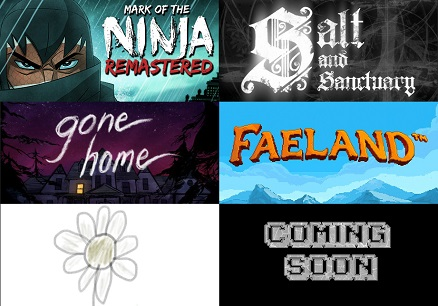
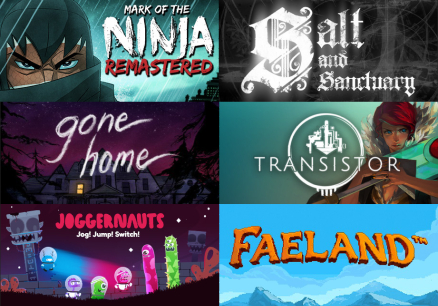
New client page

diff --git a/_site/index.html b/_site/index.html
@@ -93,11 +93,12 @@
 			<div class="inner">
 				<p>We're working on a lot of interesting games with some pretty cool people! </p>
 				<ul>
-					<li><a href="https://www.klei.com/games/mark-ninja"> <b>Klei Entertainment</b></a> : PS4™, Xbox One, Nintendo Switch, Steam Testing (QA)</li>
-					<li><a href="https://www.nintendo.com/games/detail/salt-and-sanctuary-switch"> <b>Ska Studios</b></a> : Nintendo Switch Testing (QA/Lotcheck)</li>
-					<li><a href="http://fullbrig.ht"> <b>Fullbright</b></a> : Steam PC Update for Gone Home (QA)</li>
-					<li><a href="http://www.talegames.com"> <b>Talegames</b></a> : Faeland Demo (Music)</li>
-					<li><b>Unannounced Projects for Switch, PS4™, Xbox One, and Steam! (Releasing 2018)</b></li>
+					<li><a href="https://www.klei.com/games/mark-ninja"> <b>Klei Entertainment</b></a>: Mark of the Ninja: Remastered - PS4™, Xbox One, Nintendo Switch, Steam Testing (QA)</li>
+					<li><a href="https://www.nintendo.com/games/detail/salt-and-sanctuary-switch"> <b>Ska Studios</b></a>: Salt and Sanctuary - Nintendo Switch Testing (QA/Lotcheck)</li>
+					<li><a href="https://www.nintendo.com/games/detail/transistor-switch"> <b>Supergiant Games</b></a>: Transistor - Nintendo Switch Testing (QA/Lotcheck)</li>
+					<li><a href="https://spacemacegames.com/"> <b>Space Mace Games</b></a>: Joggernauts - Nintendo Switch Testing (Lotcheck)</li>
+					<li><a href="http://fullbrig.ht"> <b>Fullbright</b></a>: Gone Home - Steam PC Update (QA)</li>
+					<li><a href="http://www.talegames.com"> <b>Talegames</b></a>: Faeland - Music for Kickstarter Demo</li>
 					<br />
 					<ul class="actions">
 						<li><a href="http://www.plasticfernstudios.com/clients" class="button scrolly">See More Clients</a></li>

diff --git a/assets/css/main.css b/assets/css/main.css
@@ -3081,33 +3081,12 @@
 				opacity: 1;
 			}
 
-		.spotlights > section:nth-child(2) {
-			background-color: rgba(0, 0, 0, 0.05);
-		}
-
-		.spotlights > section:nth-child(3) {
+		.spotlights > section:nth-child(odd) {
 			background-color: rgba(0, 0, 0, 0.1);
 		}
-		.spotlights > section:nth-child(4) {
-			background-color: rgba(0, 0, 0, 0.15);
-		}
-		.spotlights > section:nth-child(5) {
-			background-color: rgba(0, 0, 0, 0.20);
-		}
-		.spotlights > section:nth-child(6) {
-			background-color: rgba(0, 0, 0, 0.25);
-		}
-		.spotlights > section:nth-child(7) {
-			background-color: rgba(0, 0, 0, 0.05);
-		}
-		.spotlights > section:nth-child(8) {
-			background-color: rgba(0, 0, 0, 0.10);
-		}
-		.spotlights > section:nth-child(9) {
-			background-color: rgba(0, 0, 0, 0.15);
-		}
-		.spotlights > section:nth-child(10) {
-			background-color: rgba(0, 0, 0, 0.20);
+
+		.spotlights > section:nth-child(even) {
+			background-color: rgba(0, 0, 0, 0.2);
 		}
 
 		.spotlights > section.inactive > .image:before, body.is-loading .spotlights > section > .image:before {

diff --git a/_site/clients.html b/_site/clients.html
@@ -72,6 +72,24 @@
 		</div>
 	</section>
 	<section>
+		<a><img src="images/Transistor.jpg" alt="" data-position="center center" /></a>
+		<div class="content">
+			<div class="inner">
+				<a href="https://www.nintendo.com/games/detail/transistor-switch"><h2>Transistor by Supergiant Games</h2></a>
+				<p>Functional and Lotcheck QA testing on Nintendo Switch for this sci-fi themed action RPG that invites you to wield an extraordinary weapon of unknown origin as you fight through a stunning futuristic city.</p>
+			</div>
+		</div>
+	</section>
+	<section>
+		<a><img src="images/joggernauts.jpg" alt="" data-position="center center" /></a>
+		<div class="content">
+			<div class="inner">
+				<a href="https://spacemacegames.com/"><h2>Joggernauts by Space Mace Games</h2></a>
+				<p>Lotcheck QA testing on Nintendo Switch for this cooperative switching game about trying NOT to kill your friends</p>
+			</div>
+		</div>
+	</section>
+	<section>
 		<a><img src="images/gonehome.jpg" alt="" data-position="25% 25%" /></a>
 		<div class="content">
 			<div class="inner">

diff --git a/_site/assets/css/main.css b/_site/assets/css/main.css
@@ -3081,15 +3081,12 @@
 				opacity: 1;
 			}
 
-		.spotlights > section:nth-child(2) {
-			background-color: rgba(0, 0, 0, 0.05);
-		}
-
-		.spotlights > section:nth-child(3) {
+		.spotlights > section:nth-child(odd) {
 			background-color: rgba(0, 0, 0, 0.1);
 		}
-		.spotlights > section:nth-child(4) {
-			background-color: rgba(0, 0, 0, 0.15);
+
+		.spotlights > section:nth-child(even) {
+			background-color: rgba(0, 0, 0, 0.2);
 		}
 
 		.spotlights > section.inactive > .image:before, body.is-loading .spotlights > section > .image:before {

diff --git a/index.md b/index.md
@@ -69,12 +69,12 @@ title: Hyperspace by HTML5 UP
 			<div class="inner">
 				<p>We're working on a lot of interesting games with some pretty cool people! </p>
 				<ul>
-					<li><a href="https://www.klei.com/games/mark-ninja"> <b>Klei Entertainment</b></a> : PS4™, Xbox One, Nintendo Switch, Steam Testing (QA)</li>
-					<li><a href="https://www.nintendo.com/games/detail/salt-and-sanctuary-switch"> <b>Ska Studios</b></a> : Nintendo Switch Testing (QA/Lotcheck)</li>
-					<li><a href="https://spacemacegames.com/"> <b>Space Mace Games</b></a> : Joggernauts Nintendo Switch Testing (Lotcheck)</li>
-					<li><a href="http://fullbrig.ht"> <b>Fullbright</b></a> : Steam PC Update for Gone Home (QA)</li>
-					<li><a href="http://www.talegames.com"> <b>Talegames</b></a> : Faeland Demo (Music)</li>
-					<li><b>Unannounced Projects for Switch, PS4™, Xbox One, and Steam! (Releasing 2018)</b></li>
+					<li><a href="https://www.klei.com/games/mark-ninja"> <b>Klei Entertainment</b></a>: Mark of the Ninja: Remastered - PS4™, Xbox One, Nintendo Switch, Steam Testing (QA)</li>
+					<li><a href="https://www.nintendo.com/games/detail/salt-and-sanctuary-switch"> <b>Ska Studios</b></a>: Salt and Sanctuary - Nintendo Switch Testing (QA/Lotcheck)</li>
+					<li><a href="https://www.nintendo.com/games/detail/transistor-switch"> <b>Supergiant Games</b></a>: Transistor - Nintendo Switch Testing (QA/Lotcheck)</li>
+					<li><a href="https://spacemacegames.com/"> <b>Space Mace Games</b></a>: Joggernauts - Nintendo Switch Testing (Lotcheck)</li>
+					<li><a href="http://fullbrig.ht"> <b>Fullbright</b></a>: Gone Home - Steam PC Update (QA)</li>
+					<li><a href="http://www.talegames.com"> <b>Talegames</b></a>: Faeland - Music for Kickstarter Demo</li>
 					<br>
 					<ul class="actions">
 						<li><a href="http://www.plasticfernstudios.com/clients" class="button scrolly">See More Clients</a></li>

diff --git a/clients.md b/clients.md
@@ -48,6 +48,15 @@ title: Hyperspace by HTML5 UP
 		</div>
 	</section>
 	<section>
+		<a><img src="images/Transistor.jpg" alt="" data-position="center center" /></a>
+		<div class="content">
+			<div class="inner">
+				<a href="https://www.nintendo.com/games/detail/transistor-switch"><h2>Transistor by Supergiant Games</h2></a>
+				<p>Functional and Lotcheck QA testing on Nintendo Switch for this sci-fi themed action RPG that invites you to wield an extraordinary weapon of unknown origin as you fight through a stunning futuristic city.</p>
+			</div>
+		</div>
+	</section>
+	<section>
 		<a><img src="images/joggernauts.jpg" alt="" data-position="center center" /></a>
 		<div class="content">
 			<div class="inner">
